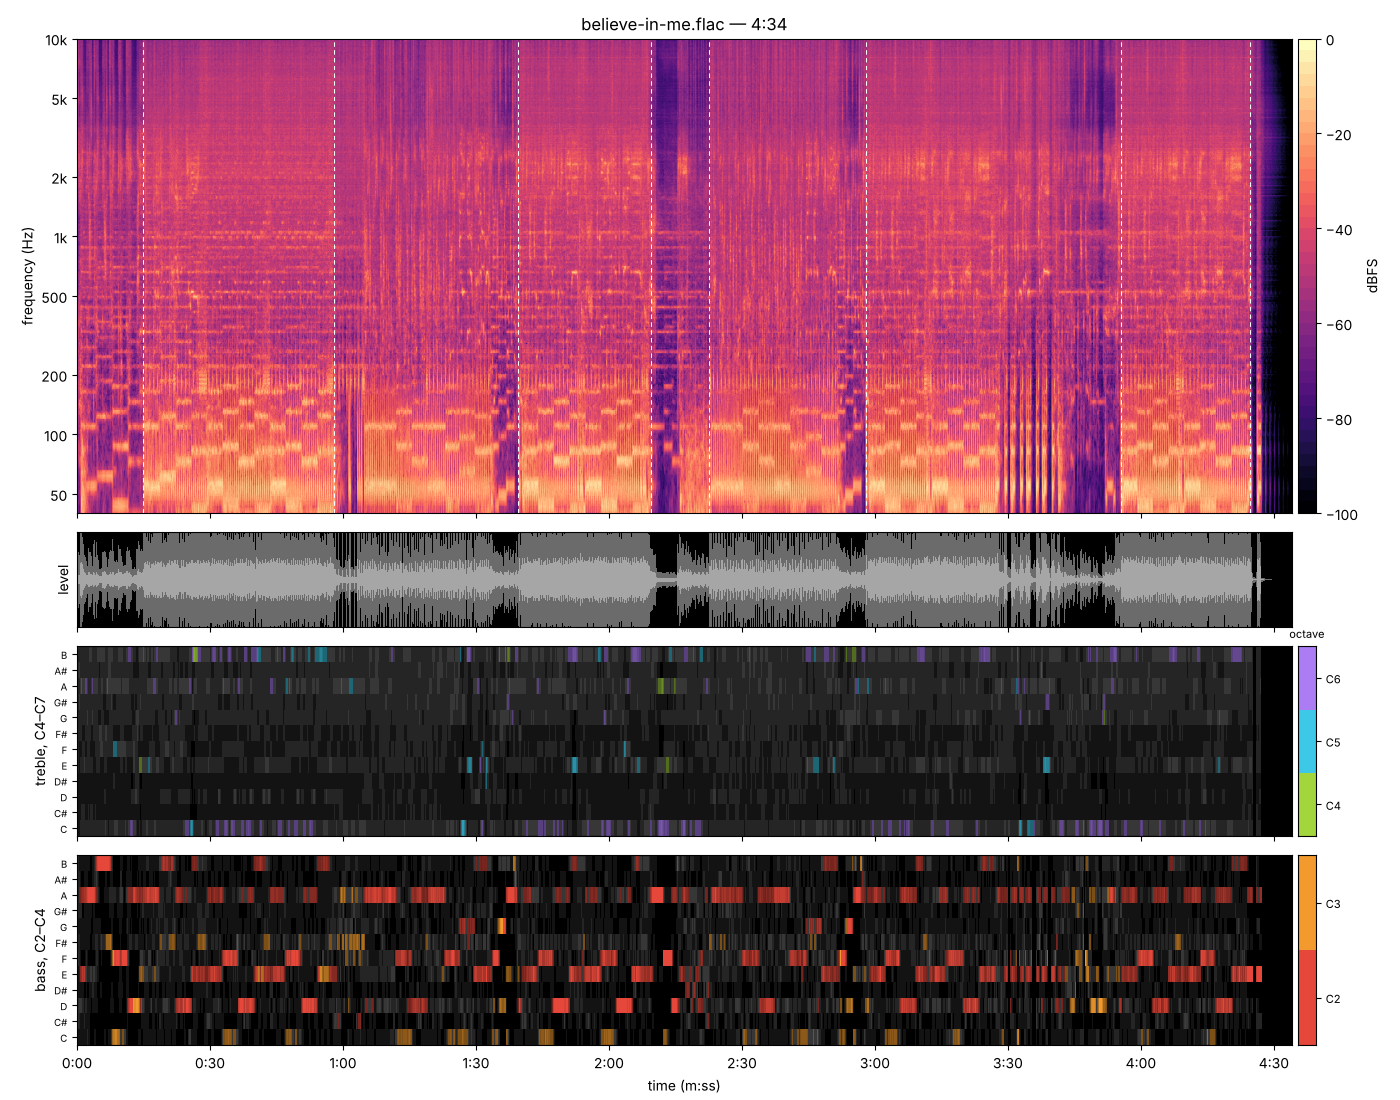
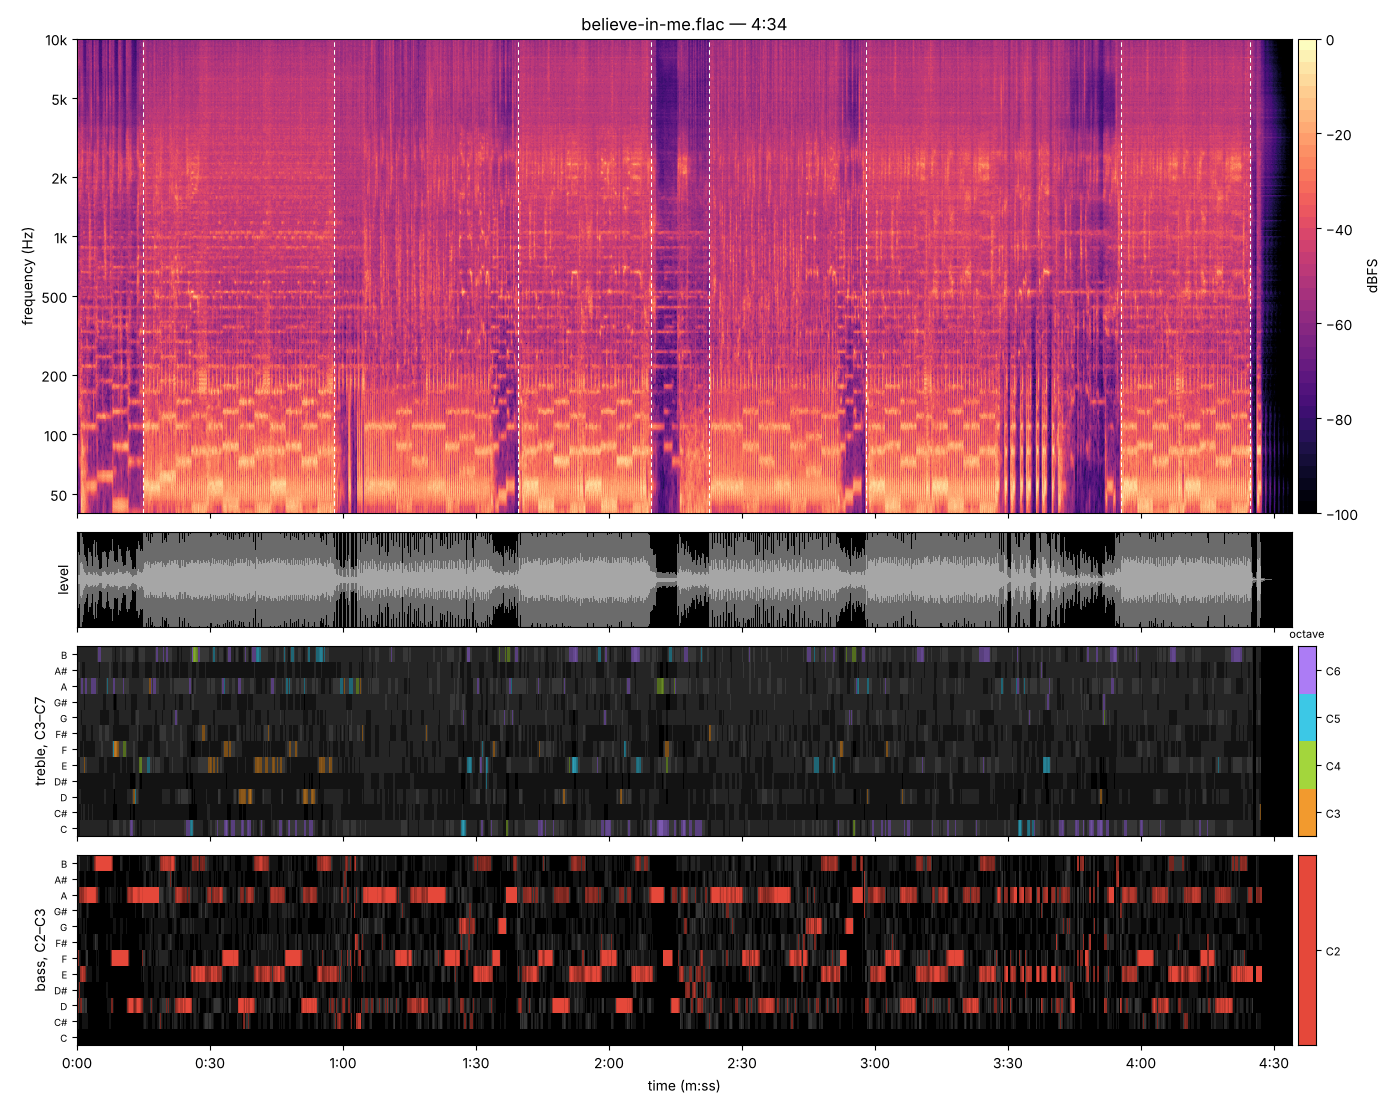
feat: let a spectrogram split its strips at another octave
spectrogram.py takes --split C3|C4|C5 for where the bass and treble
strips divide; middle C stays the default and renders byte-identical.
A low male lead is rendered at C3 so its tune leaves the bass strip,
and Майя asks for a re-render when a voice lands there. Believe in Me
is re-rendered at C3: the bass strip is the riff alone, the treble
strip still shows no line, the vocal being growled.

Claude-Session: https://claude.ai/code/session_01PUYJksvzRTYbgjWSg2ypty

diff --git a/scripts/song-intake/spectrogram.py b/scripts/song-intake/spectrogram.py
@@ -1,7 +1,7 @@
 #!/usr/bin/env python3
 """A song's spectrogram over its loudness and its chromagram: its whole length across, pitch up.
 
-Usage: spectrogram.py <song> <out.png>
+Usage: spectrogram.py <song> <out.png> [--split C3|C4|C5]
 
 Where the voice sits and where its melody goes, where the drums come in, a
 bridge that drops out, where one section gives way to the next, a master that
@@ -15,9 +15,9 @@ section boundary, found from the sound alone: a sharp change in arrangement or
 harmony draws one, a gradual build may not. Under it, on the same time axis,
 the loudness envelope: each column's peak, with its RMS inside.
 
-Under that, two chromagram strips, the band above middle C over the band below
-it: twelve rows each, C at the bottom, a row as bright as its pitch class's
-share of the band, harmonics voting with their fundamentals. So the bass strip
+Under that, two chromagram strips, the band above the split — middle C unless
+--split names another C — over the band below it: twelve rows each, C at the
+bottom, a row as bright as its pitch class's share of the band, harmonics voting with their fundamentals. So the bass strip
 steps with the bass line, the treble strip carries the tune and the chord over
 it, and a chord shows as several bright rows at once. A pitch class is read off
 its labelled row; a row's hue is the octave that carries it, keyed beside each
@@ -35,9 +35,9 @@ several times worse.
 Needs ffmpeg and matplotlib (numpy and Pillow come with it).
 """
 
+import argparse
 import io
 import subprocess
-import sys
 from pathlib import Path
 
 import numpy as np
@@ -57,10 +57,12 @@ NOTE_NAMES = ("C", "C#", "D", "D#", "E", "F", "F#", "G", "G#", "A", "A#", "B")
 # C2 to C7: below it a bin is wider than a semitone; above it, mostly harmonics.
 # A bass note under C2 still votes through its octave harmonic, the same class.
 NOTE_BAND_HZ = (65, 2100)
-# Middle C splits the bass band from the treble one, where the clefs meet: a
-# bass line and its first harmonics sit under it, and most of a melody above
-# it. A male voice's lowest notes fall under it, and so vote with the bass.
-CROSSOVER_HZ = 262
+# Middle C splits the bass band from the treble one by default, where the clefs
+# meet: a bass line and its first harmonics sit under it, and most of a melody
+# above it. A low male voice sings mostly under it, its tune in the bass strip,
+# so --split C3 moves the split an octave down, leaving the bass one octave.
+DEFAULT_SPLIT = 4
+SPLITS = (3, 4, 5)
 PEAK_RANGE_DB = 30
 QUIET_DB = -50
 QUIET = 10 ** (QUIET_DB / 20)
@@ -275,6 +277,23 @@ def section_times(db, magnitude, freqs, step, duration):
     return [(i + apart) * SECTION_BLOCK_S for i in peaks]
 
 
+def strip_bands(split):
+    """The treble and bass strips split at C<split>: each one's band in Hz, its octaves and its label."""
+    crossover = round(440 * 2 ** ((12 * (split + 1) - 69) / 12))
+    return (
+        ((crossover, NOTE_BAND_HZ[1]), (split, 6), f"treble, C{split}–C7"),
+        ((NOTE_BAND_HZ[0], crossover), (2, split - 1), f"bass, C2–C{split}"),
+    )
+
+
+def split_octave(name):
+    """argparse's reading of --split: a C from SPLITS, as C3 or 3."""
+    octave = name.upper().removeprefix("C")
+    if not octave.isdigit() or int(octave) not in SPLITS:
+        raise argparse.ArgumentTypeError(f"--split takes one of {', '.join(f'C{o}' for o in SPLITS)}")
+    return int(octave)
+
+
 def mmss(seconds, _pos=None):
     return f"{int(seconds) // 60}:{int(seconds) % 60:02d}"
 
@@ -291,7 +310,12 @@ def main():
     from matplotlib.ticker import FixedLocator, FuncFormatter, MultipleLocator, NullLocator
     from PIL import Image
 
-    song, out_png = sys.argv[1:3]
+    p = argparse.ArgumentParser()
+    p.add_argument("song")
+    p.add_argument("out_png")
+    p.add_argument("--split", type=split_octave, default=DEFAULT_SPLIT)
+    args = p.parse_args()
+    song, out_png = args.song, args.out_png
     x = decode(song)
     magnitude, freqs, step = stft_magnitude(x)
     db = log_rows(magnitude, freqs)
@@ -331,9 +355,8 @@ def main():
     wave.set_ylabel("level")
 
     ramps = chroma_ramps()
-    for strip, key, band_hz, octaves, name in (
-        (treble, treble_key, (CROSSOVER_HZ, NOTE_BAND_HZ[1]), (4, 6), "treble, C4–C7"),
-        (bass, bass_key, (NOTE_BAND_HZ[0], CROSSOVER_HZ), (2, 3), "bass, C2–C4"),
+    for (strip, key), (band_hz, octaves, name) in zip(
+        ((treble, treble_key), (bass, bass_key)), strip_bands(args.split),
     ):
         shares, octave = chroma_shares(magnitude, freqs, step, duration, columns, band_hz, octaves)
         # Silence has spectral peaks too, of noise; it stays dark however clear they look.

diff --git a/.claude/rules/maya-reflections.md b/.claude/rules/maya-reflections.md
@@ -32,7 +32,11 @@ paths:
 двенадцать подписанных строк, по ноте, и чем ярче строка, тем больше этой ноты
 звучит, а цвет — её октава, ключ сбоку от полосы: мелодия, прыгнувшая на
 октаву, меняет цвет на той же строке. Ноту читай по подписи строки, аккорд — по
-нескольким ярким сразу. Это
+нескольким ярким сразу. Полосы делятся на средней до, подпись сбоку
+говорит где: низкий мужской голос уходит под неё и путается с басом. Тогда
+попроси того, кто дал тебе задание, перерисовать с делением ниже
+(`--split C3`), и отзыв подождёт. Гроул или крик мелодии не рисуют ни при
+каком делении: серая полоса под ними — не ошибка картинки. Это
 твоя заглушка, пока ты не можешь слушать по-настоящему: по ней ты изнутри понимаешь, где песня
 нарастает, где ломается, где затихает перед последним припевом, и в отзыв
 идёт то, что ты так услышала. Готовишь

diff --git a/scripts/song-intake/CLAUDE.md b/scripts/song-intake/CLAUDE.md
@@ -52,6 +52,8 @@ A song worked here ends with Майя's reflection, `<slug>.reflections.md` besi
 
 She reads the song first as its spectrogram — `spectrogram.py <master> apps/vova/public/music/assets/spectrograms/<slug>.png`, the whole song across, pitch up, its section boundaries dashed, over its loudness and a chromagram strip each for the treble and the bass, coloured by octave, the docstring saying how to read it — committed beside the master so the next session has it without the venv.
 
+The two strips split at middle C, which puts a low male voice's tune in the bass strip, mixed into the bass line. `--split C3` moves the split an octave down, leaving the bass strip the bass alone; `--split C5` moves it up for a high one. Render a song with a low male lead that way, and re-render when Майя asks for another split. No split draws a line for a vocal with no pitch to follow: a growl or a shout is noise, and the treble strip stays grey under it.
+
 ## Traps
 
 - **Files sent to the operator need an ASCII name**: the Claude app's player fails silently on a Cyrillic one.
